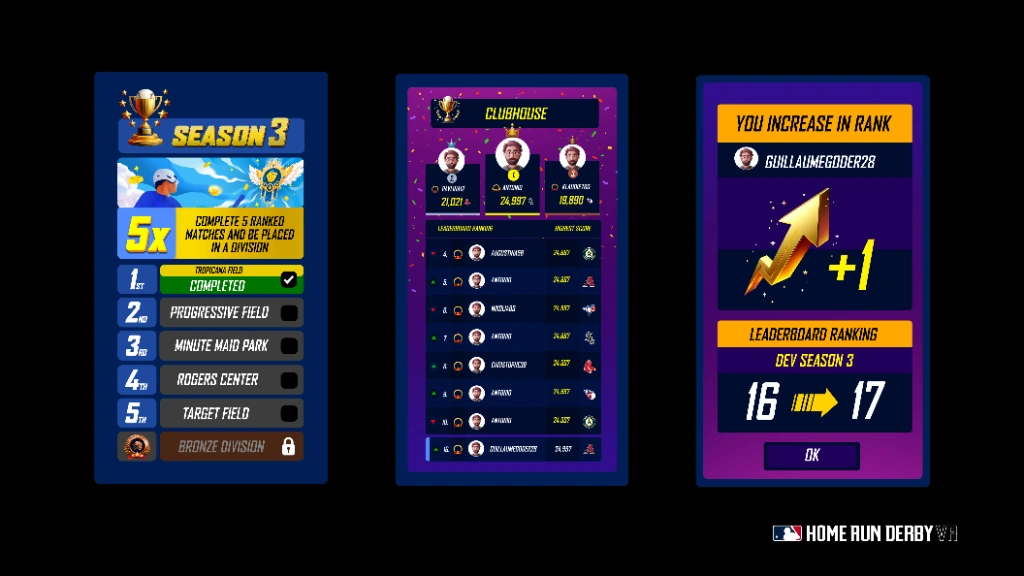
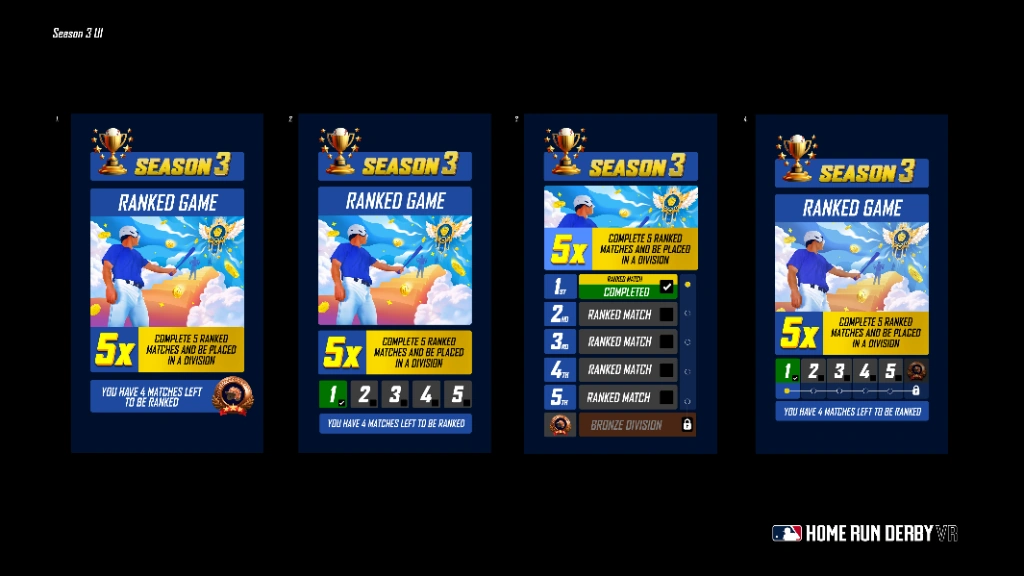
Update Home Run Derby VR assets with borderless tournament and progression flows and add division rank badges

diff --git a/home-run-derby-vr.html b/home-run-derby-vr.html
@@ -628,7 +628,7 @@
       </div>
       <div class="flex items-center gap-2 text-xs font-mono text-neutral-500">
         <span class="inline-block w-2 h-2 rounded-full bg-orange-500"></span>
-        <span class="i18n" data-en="12 PRODUCTION ASSETS" data-fr="12 ACTIFS DE PRODUCTION">12 PRODUCTION ASSETS</span>
+        <span class="i18n" data-en="13 PRODUCTION ASSETS" data-fr="13 ACTIFS DE PRODUCTION">13 PRODUCTION ASSETS</span>
       </div>
     </div>
   </div>
@@ -674,9 +674,12 @@
       <img alt="Season 3 UI Update" class="block w-full h-full object-cover" loading="lazy" src="Home%20Run%20Derby%20Vr/Season%2B3%2Bui.webp"/>
     </div>
     <div class="overflow-hidden rounded-2xl md:rounded-3xl shadow-xl bg-neutral-950">
-      <img alt="Ultimate Prestige Progression Icons" class="block w-full h-full object-cover" loading="lazy" src="Home%20Run%20Derby%20Vr/Ultimate%2BPrestige%2BIcon.webp"/>
+      <img alt="Divisions Rank Badges — Bronze to Master" class="block w-full h-full object-cover" loading="lazy" src="Home%20Run%20Derby%20Vr/Divisions%2BRank%2BBadges.webp"/>
     </div>
     <div class="overflow-hidden rounded-2xl md:rounded-3xl shadow-xl bg-neutral-950">
+      <img alt="Ultimate Prestige Progression Icons" class="block w-full h-full object-cover" loading="lazy" src="Home%20Run%20Derby%20Vr/Ultimate%2BPrestige%2BIcon.webp"/>
+    </div>
+    <div class="overflow-hidden rounded-2xl md:rounded-3xl shadow-xl bg-neutral-950 md:col-span-2">
       <img alt="Network Reconnection, Error States &amp; XP Rewards" class="block w-full h-full object-cover" loading="lazy" src="Home%20Run%20Derby%20Vr/Error%2BStates%2Band%2BNetwork%2BRewards.webp"/>
     </div>
   </div>

diff --git a/concept-art.html b/concept-art.html
@@ -470,6 +470,9 @@
         <img alt="Home Run Derby VR — Ultimate Prestige Progression Icons" loading="lazy" src="Home%20Run%20Derby%20Vr/Ultimate%2BPrestige%2BIcon.webp"/>
       </div>
       <div class="gallery-card overflow-hidden">
+        <img alt="Home Run Derby VR — Divisions Rank Badges" loading="lazy" src="Home%20Run%20Derby%20Vr/Divisions%2BRank%2BBadges.webp"/>
+      </div>
+      <div class="gallery-card overflow-hidden">
         <img alt="Home Run Derby VR — Season 3 UI System" loading="lazy" src="Home%20Run%20Derby%20Vr/Season%2B3%2Bui.webp"/>
       </div>
       <div class="gallery-card overflow-hidden">

diff --git a/index.html b/index.html
@@ -470,6 +470,9 @@
         <img alt="Home Run Derby VR — Ultimate Prestige Progression Icons" loading="lazy" src="Home%20Run%20Derby%20Vr/Ultimate%2BPrestige%2BIcon.webp"/>
       </div>
       <div class="gallery-card overflow-hidden">
+        <img alt="Home Run Derby VR — Divisions Rank Badges" loading="lazy" src="Home%20Run%20Derby%20Vr/Divisions%2BRank%2BBadges.webp"/>
+      </div>
+      <div class="gallery-card overflow-hidden">
         <img alt="Home Run Derby VR — Season 3 UI System" loading="lazy" src="Home%20Run%20Derby%20Vr/Season%2B3%2Bui.webp"/>
       </div>
       <div class="gallery-card overflow-hidden">
